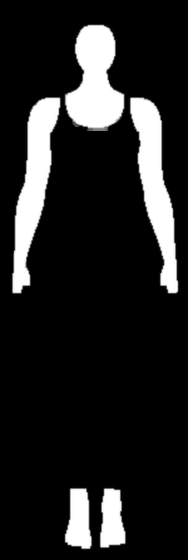
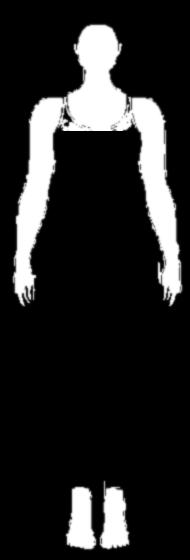
Body figures: all skin-colored parts recolor (fingers, toes, gaps), cleaner edges, shape outline made clearly visible with a light halo
Claude-Session: https://claude.ai/code/session_01FUdN8BrrqRcBgv91ujUewX

diff --git a/report-extra.js b/report-extra.js
@@ -449,7 +449,7 @@
     for (var q = 1; q < 12; q++) { var th = Math.PI - Math.PI * q / 12; capT.push([cx + wt * Math.cos(th), yT - 12 * Math.sin(th)]); }
     for (var q2 = 1; q2 < 12; q2++) { var th2 = Math.PI * q2 / 12; capB.push([cx + wb * Math.cos(th2), yB + 18 * Math.sin(th2)]); }
     var path = [left[0]].concat(capT, right, capB, left.slice().reverse()).map(function (p, i) { return (i ? 'L' : 'M') + X(p[0]).toFixed(1) + ' ' + Y(p[1]).toFixed(1); }).join(' ') + ' Z';
-    return '<path d="' + path + '" fill="none" stroke="#BC8E62" stroke-width="1.4" stroke-linejoin="round" opacity=".95"/>';
+    return '<path d="' + path + '" fill="none" stroke="#FFFFFF" stroke-width="3.8" stroke-linejoin="round" opacity=".65"/><path d="' + path + '" fill="none" stroke="#A8692F" stroke-width="1.9" stroke-linejoin="round"/>';
   }
   function shapeFig(r) {
     var key = shapeKey(r);

diff --git a/analysis-results.html b/analysis-results.html
@@ -10,7 +10,7 @@
 <link href="https://fonts.googleapis.com/css2?family=Cormorant+Garamond:ital,wght@0,400;0,500;0,600;1,400;1,500&family=Plus+Jakarta+Sans:wght@300;400;500;600&display=swap" rel="stylesheet">
 <script src="https://cdnjs.cloudflare.com/ajax/libs/jspdf/2.5.1/jspdf.umd.min.js"></script>
 <script src="https://cdnjs.cloudflare.com/ajax/libs/html2canvas/1.4.1/html2canvas.min.js"></script>
-<script src="report-extra.js?v=906f294c"></script>
+<script src="report-extra.js?v=7ff6f4e4"></script>
 <style>
 :root{--bg:#FAF9F6;--surface:#EFECE6;--ink:#181716;--ink-soft:#6B6862;--line:#DCD8D0;--accent:#7A1321;--accent-deep:#4E0B14;--accent-ink:#FAF9F6;--font-display:'Cormorant Garamond',Georgia,serif;--font-body:'Plus Jakarta Sans',-apple-system,'Segoe UI',sans-serif;}
 *{margin:0;padding:0;box-sizing:border-box;}
